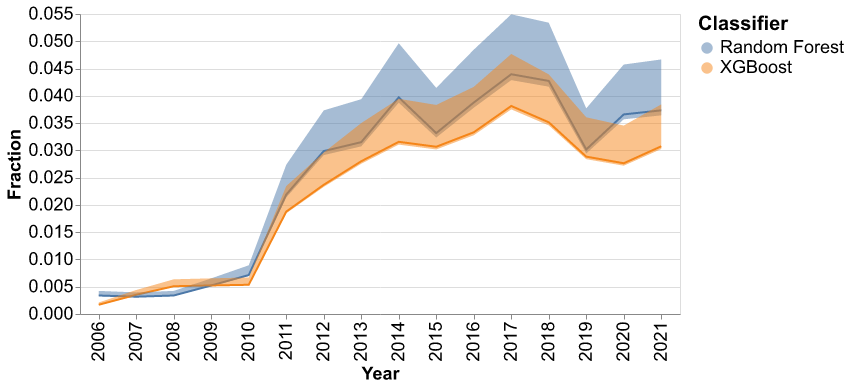
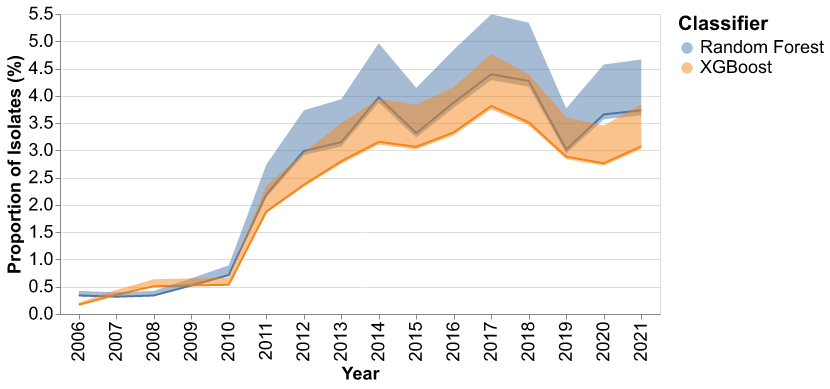
Updating chart axes

diff --git a/scripts/classifierutils.py b/scripts/classifierutils.py
@@ -235,8 +235,9 @@ def testClassifiers(classifier_dict:dict, **tups:tuple):
         corr_df = pd.concat([corr_df, _df])
 
         ## Impute the colums of the yearly fraction dataframe to produce 
-        #  long-form data.
+        #  long-form data, then convert fractions into percentage.
         alt_df = alt_df.melt("Year", var_name="Classifier", value_name="Fraction")
+        alt_df["Fraction"] = alt_df["Fraction"] * 100
         
         ## Broadcast the FPR and FNR values across all predicted yearly fractions.
         fpr_arr = np.zeros(len(alt_df))
@@ -254,15 +255,15 @@ def testClassifiers(classifier_dict:dict, **tups:tuple):
         ## Visualize the fraction predictions
         line = alt.Chart(alt_df).mark_line().encode(
             x="Year:O",
-            y="Fraction:Q",
+            y=alt.Y("Fraction:Q", title="Proportion of Isolates (%)"),
             color="Classifier:N"
         ).properties(
             title=tup_name
         )
         err_band = alt.Chart(alt_df).mark_area(opacity=0.5).encode(
             x="Year:O",
-            y=alt.Y("max:Q", title="Fraction"),
-            y2=alt.Y2("min:Q", title="Fraction"),
+            y=alt.Y("max:Q", title="Proportion of Isolates (%)"),
+            y2=alt.Y2("min:Q", title="Proportion of Isolates (%)"),
             color="Classifier:N"
         )
         chrt = line+err_band
@@ -345,8 +346,9 @@ def predictClassifiers(classifier_dict:dict, x:np.ndarray, year:np.ndarray,
 
 
     ## Impute the colums of the yearly fraction dataframe to produce 
-    # long-form data.
+    # long-form data, then convert the fraction data into percentages.
     melt_alt_df = alt_df.melt("Year", var_name="Classifier", value_name="Fraction")
+    melt_alt_df["Fraction"] = melt_alt_df["Fraction"] * 100
 
     ## Compute the estimated error band using false-positive and -negative rates.
     for ix in melt_alt_df.index:
@@ -358,13 +360,13 @@ def predictClassifiers(classifier_dict:dict, x:np.ndarray, year:np.ndarray,
     ## Visualize the predicted yearly fractions
     line = alt.Chart(melt_alt_df).mark_line().encode(
         x="Year:O",
-        y="Fraction:Q",
+        y=alt.Y("Fraction:Q", title="Proportion of Isolates (%)"),
         color="Classifier"
     )
     err = alt.Chart(melt_alt_df).mark_area(opacity=0.5).encode(
         x="Year:O",
-        y=alt.Y("max:Q", title="Fraction"),
-        y2=alt.Y2("min:Q", title="Fraction"),
+        y=alt.Y("max:Q", title="Proportion of Isolates (%)"),
+        y2=alt.Y2("min:Q", title="Proportion of Isolates (%)"),
         color="Classifier:N"
     )
     chart = line+err
